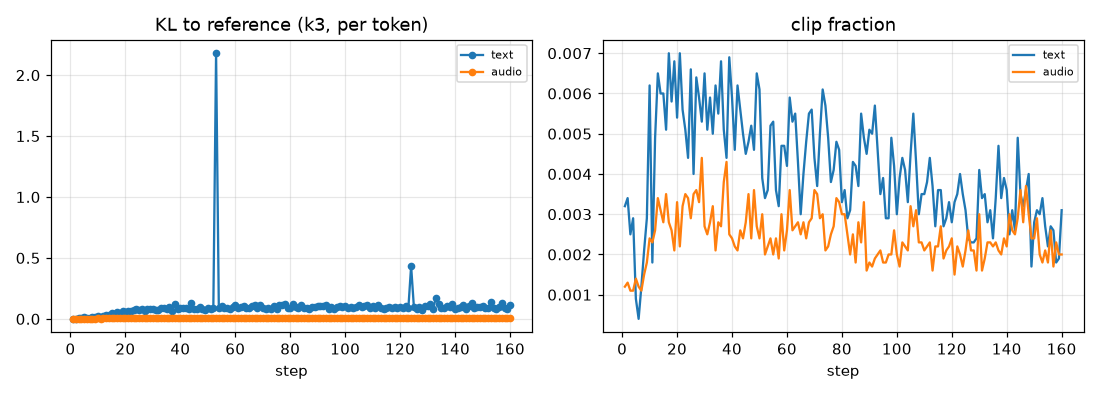
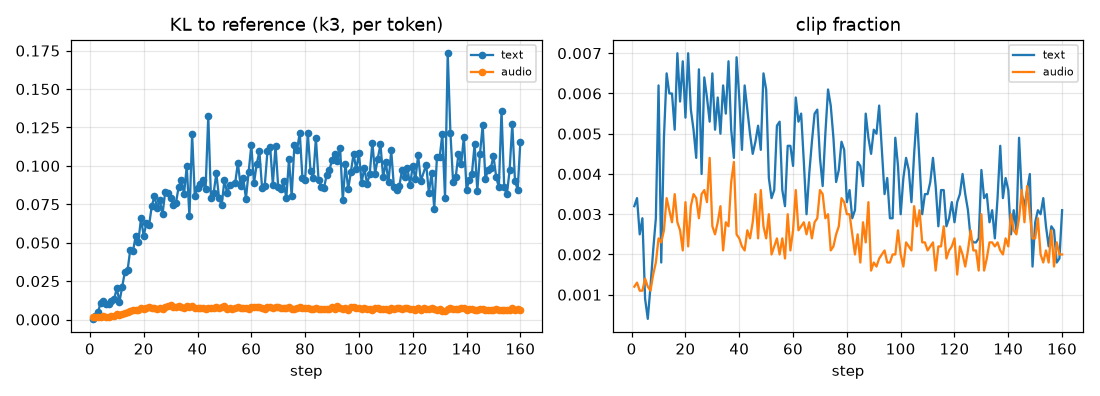
grpo_full: KL plot rescaled

diff --git a/scripts/plot_grpo.py b/scripts/plot_grpo.py
@@ -17,6 +17,7 @@ def load(p):
 
 def main():
     d = Path(sys.argv[1])
+    drop = {int(x) for x in sys.argv[2].split(",")} if len(sys.argv) > 2 else set()  # steps left out of the KL plot
     tr, va = load(d / "metrics.jsonl"), load(d / "val.jsonl")
     out = ROOT / "results" / "plots" / d.name  # one folder per run, e.g. results/plots/grpo_smoke2/
     out.mkdir(parents=True, exist_ok=True)
@@ -47,7 +48,8 @@ def main():
     fig("latency", [("valid-fruit latency (s)", [("train median", s, g(tr, "latency_median"), "-o"),
                                                  ("train mean", s, g(tr, "latency_mean"), "-"),
                                                  ("val median", vs, g(va, "latency_median"), "s--")])])
-    fig("kl", [("KL to reference (k3, per token)", [("text", s, g(tr, "kl_text"), "-o"), ("audio", s, g(tr, "kl_audio"), "-o")]),
+    fig("kl", [("KL to reference (k3, per token)", [("text", s, [None if r["step"] in drop else r.get("kl_text") for r in tr], "-o"),
+                                                       ("audio", s, g(tr, "kl_audio"), "-o")]),
                ("clip fraction", [("text", s, g(tr, "clipfrac_text"), "-"), ("audio", s, g(tr, "clipfrac_audio"), "-")])])
     fig("spread", [("groups with nonzero spread", [("groups", s, g(tr, "groups_with_spread"), "-o"),
                                                    ("turn positions", s, g(tr, "turn_positions_with_spread"), "-")]),
